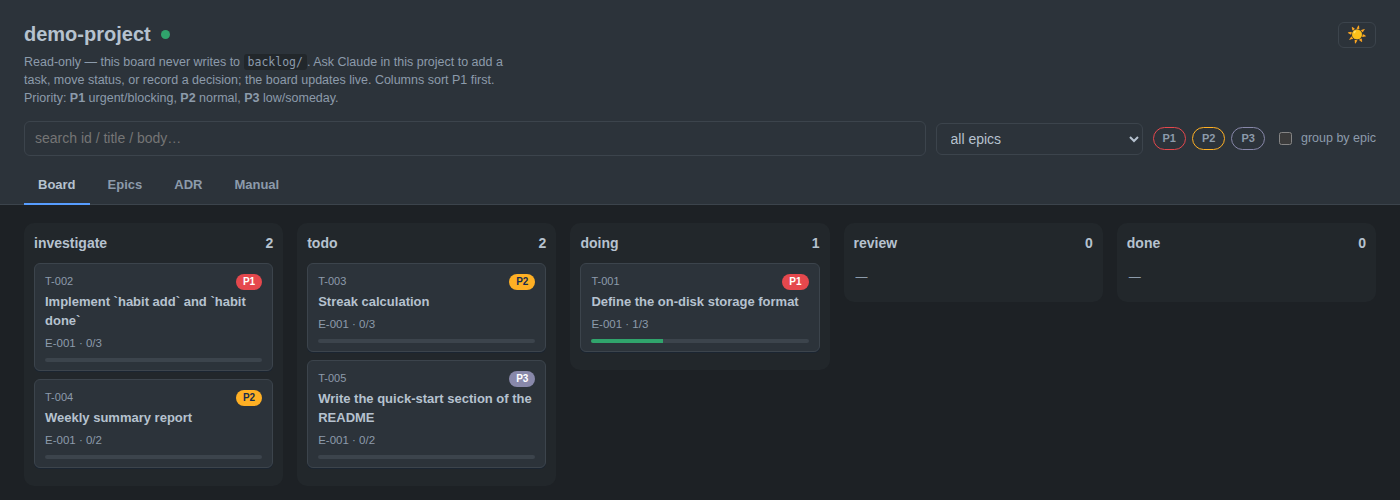
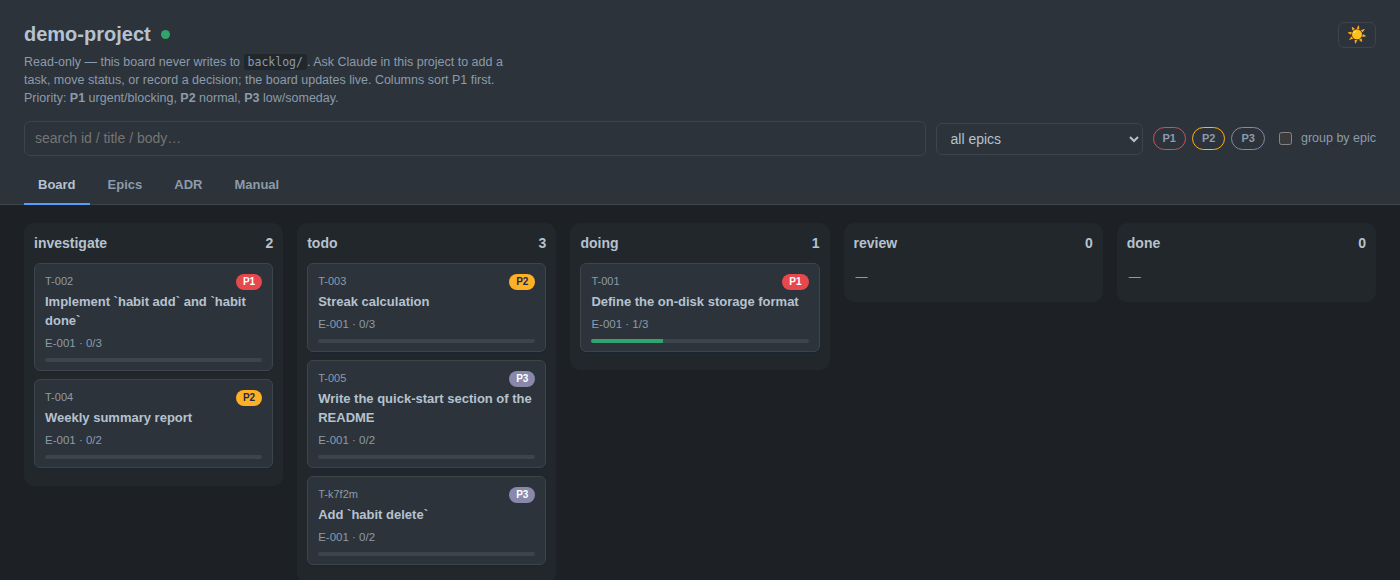
Demo project: add a random-ID task; refresh screenshots

diff --git a/examples/demo-project/backlog/INDEX.md b/examples/demo-project/backlog/INDEX.md
@@ -1,5 +1,4 @@
 <!-- generated by build.py — do not edit -->
-next: T-006 · E-002
 
 | ID | Title | Epic | Status | Pri | Done |
 |---|---|---|---|---|---|
@@ -8,3 +7,4 @@ next: T-006 · E-002
 | T-003 | Streak calculation | E-001 | todo | P2 | 0/3 |
 | T-004 | Weekly summary report | E-001 | investigate | P2 | 0/2 |
 | T-005 | Write the quick-start section of the README | E-001 | todo | P3 | 0/2 |
+| T-k7f2m | Add `habit delete` | E-001 | todo | P3 | 0/2 |

diff --git a/examples/demo-project/backlog/tasks/T-k7f2m-add-delete-command.md b/examples/demo-project/backlog/tasks/T-k7f2m-add-delete-command.md
@@ -1,0 +1,19 @@
+---
+id: T-k7f2m
+title: Add `habit delete`
+epic: E-001
+status: todo
+priority: P3
+created: 2026-11-18T14:20:00
+updated: 2026-11-18
+---
+
+## Context
+Shows a random ID (from `build.py --new task`) next to the older numeric ones. No
+blockers; ordered after T-005 by its `created` timestamp.
+
+## Subtasks
+- [ ] `habit delete <name>` removes a habit after a confirmation
+- [ ] Unit test for deleting an unknown habit
+
+## Notes
